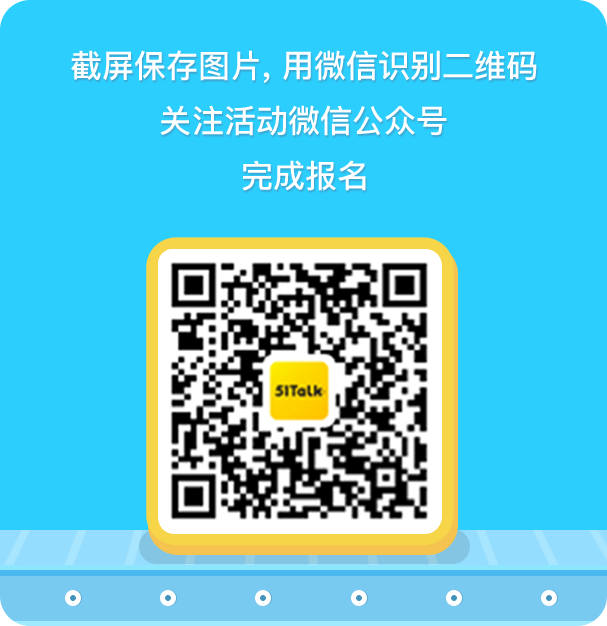
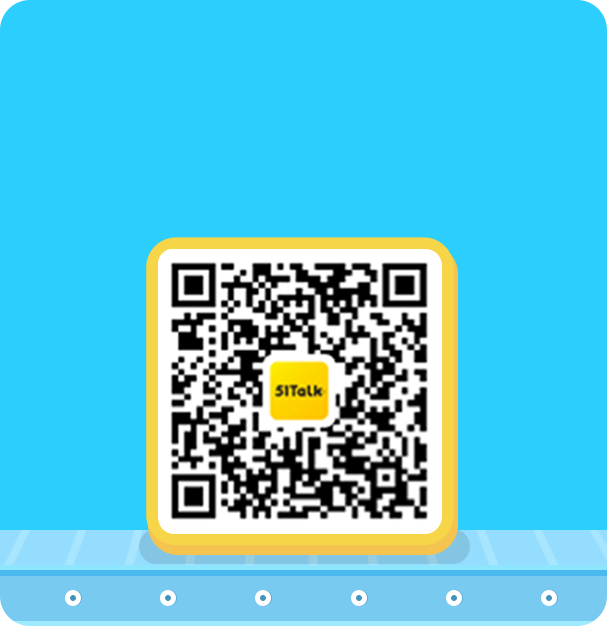
mod sb requirement

Changed region(s): [[0.1186, 0.0607, 0.8896, 0.3035]]

diff --git a/html/index.html b/html/index.html
@@ -133,7 +133,8 @@
         <p class="loading-progress">正在加载...<span class="loading-number">0</span>%</p>
     </div>
     <div class="star-yell not-display">
-        <video class="star-video" src="http://demo.lanrenzhijia.com/demo/51/5183/demo/vedio/sintel.mp4" poster="../static/images/index/starPoster.png"  style="object-fit:fill" poster="../static/images/index/starPoster.png" x5-video-player-type="h5" x5-video-player-fullscreen="true" playsinline x5-video-orientation="portraint" x5-playsinline="true" playsinline="true" webkit-playsinline="true"></video>
+        <!-- <video class="star-video" src="http://demo.lanrenzhijia.com/demo/51/5183/demo/vedio/sintel.mp4" poster="../static/images/index/starPoster.png"  style="object-fit:fill" poster="../static/images/index/starPoster.png" x5-video-player-type="h5" x5-video-player-fullscreen="true" playsinline x5-video-orientation="portraint" x5-playsinline="true" playsinline="true" webkit-playsinline="true"></video> -->
+        <img class="star-video" src="../static/images/index/starPoster.png" style="object-fit:fill;width: 10rem;height: 19.37333rem;" />
         <img class="star-play" src="../static/images/index/play.png" />
         <img class="jump" src="../static/images/index/jump.png" />
     </div>

diff --git a/src/js/enroll.js b/src/js/enroll.js
@@ -56,13 +56,15 @@ let initProvince = () => {
         $(".province .yuko-select_items").append('<div>' + zone[i].name + '</div>');
     }
     
-    $(".province .yuko-select_items>div").on("touchstart",function(){
+    $(".province .yuko-select_items>div").on("touchstart",function(e){
         province = $(this).html();
         $(".city .yuko-select_items>div").unbind();
         $(".city .yuko-select_items").html("");
         $(".city .yuko-select_selected").html("请选择");
         city = "";
         appendCity(province);
+        e.preventDefault()
+        $('.yuko-textfield_input').blur()
     });
 }
 
@@ -74,8 +76,10 @@ let appendCity = (province) => {
             }
         }
     }
-    $(".city .yuko-select_items>div").on("touchstart",function(){
+    $(".city .yuko-select_items>div").on("touchstart",function(e){
         city = $(this).html();
+        e.preventDefault()
+        $('.yuko-textfield_input').blur()
     });
 }
 

diff --git a/html/attention.html b/html/attention.html
@@ -13,6 +13,11 @@
 <body>
     <div class="attention-container">
         <div class="qcode-content">
+            <p style="color: #fff;font-size: 16px;text-align: center;z-index: 999;position: absolute;top: 19px;left: 50%;width: 200px;margin-left: -100px;line-height: 27px;">
+                长按二维码<br/>
+                关注官网微信公众号<br/>
+                完成报名
+            </p>
             <img class="attention-img" src="../static/images/attention/QRcode.png" />
             <img class="attention-qcode" src="../static/images/attention/QRcode2.png" />
         </div>
